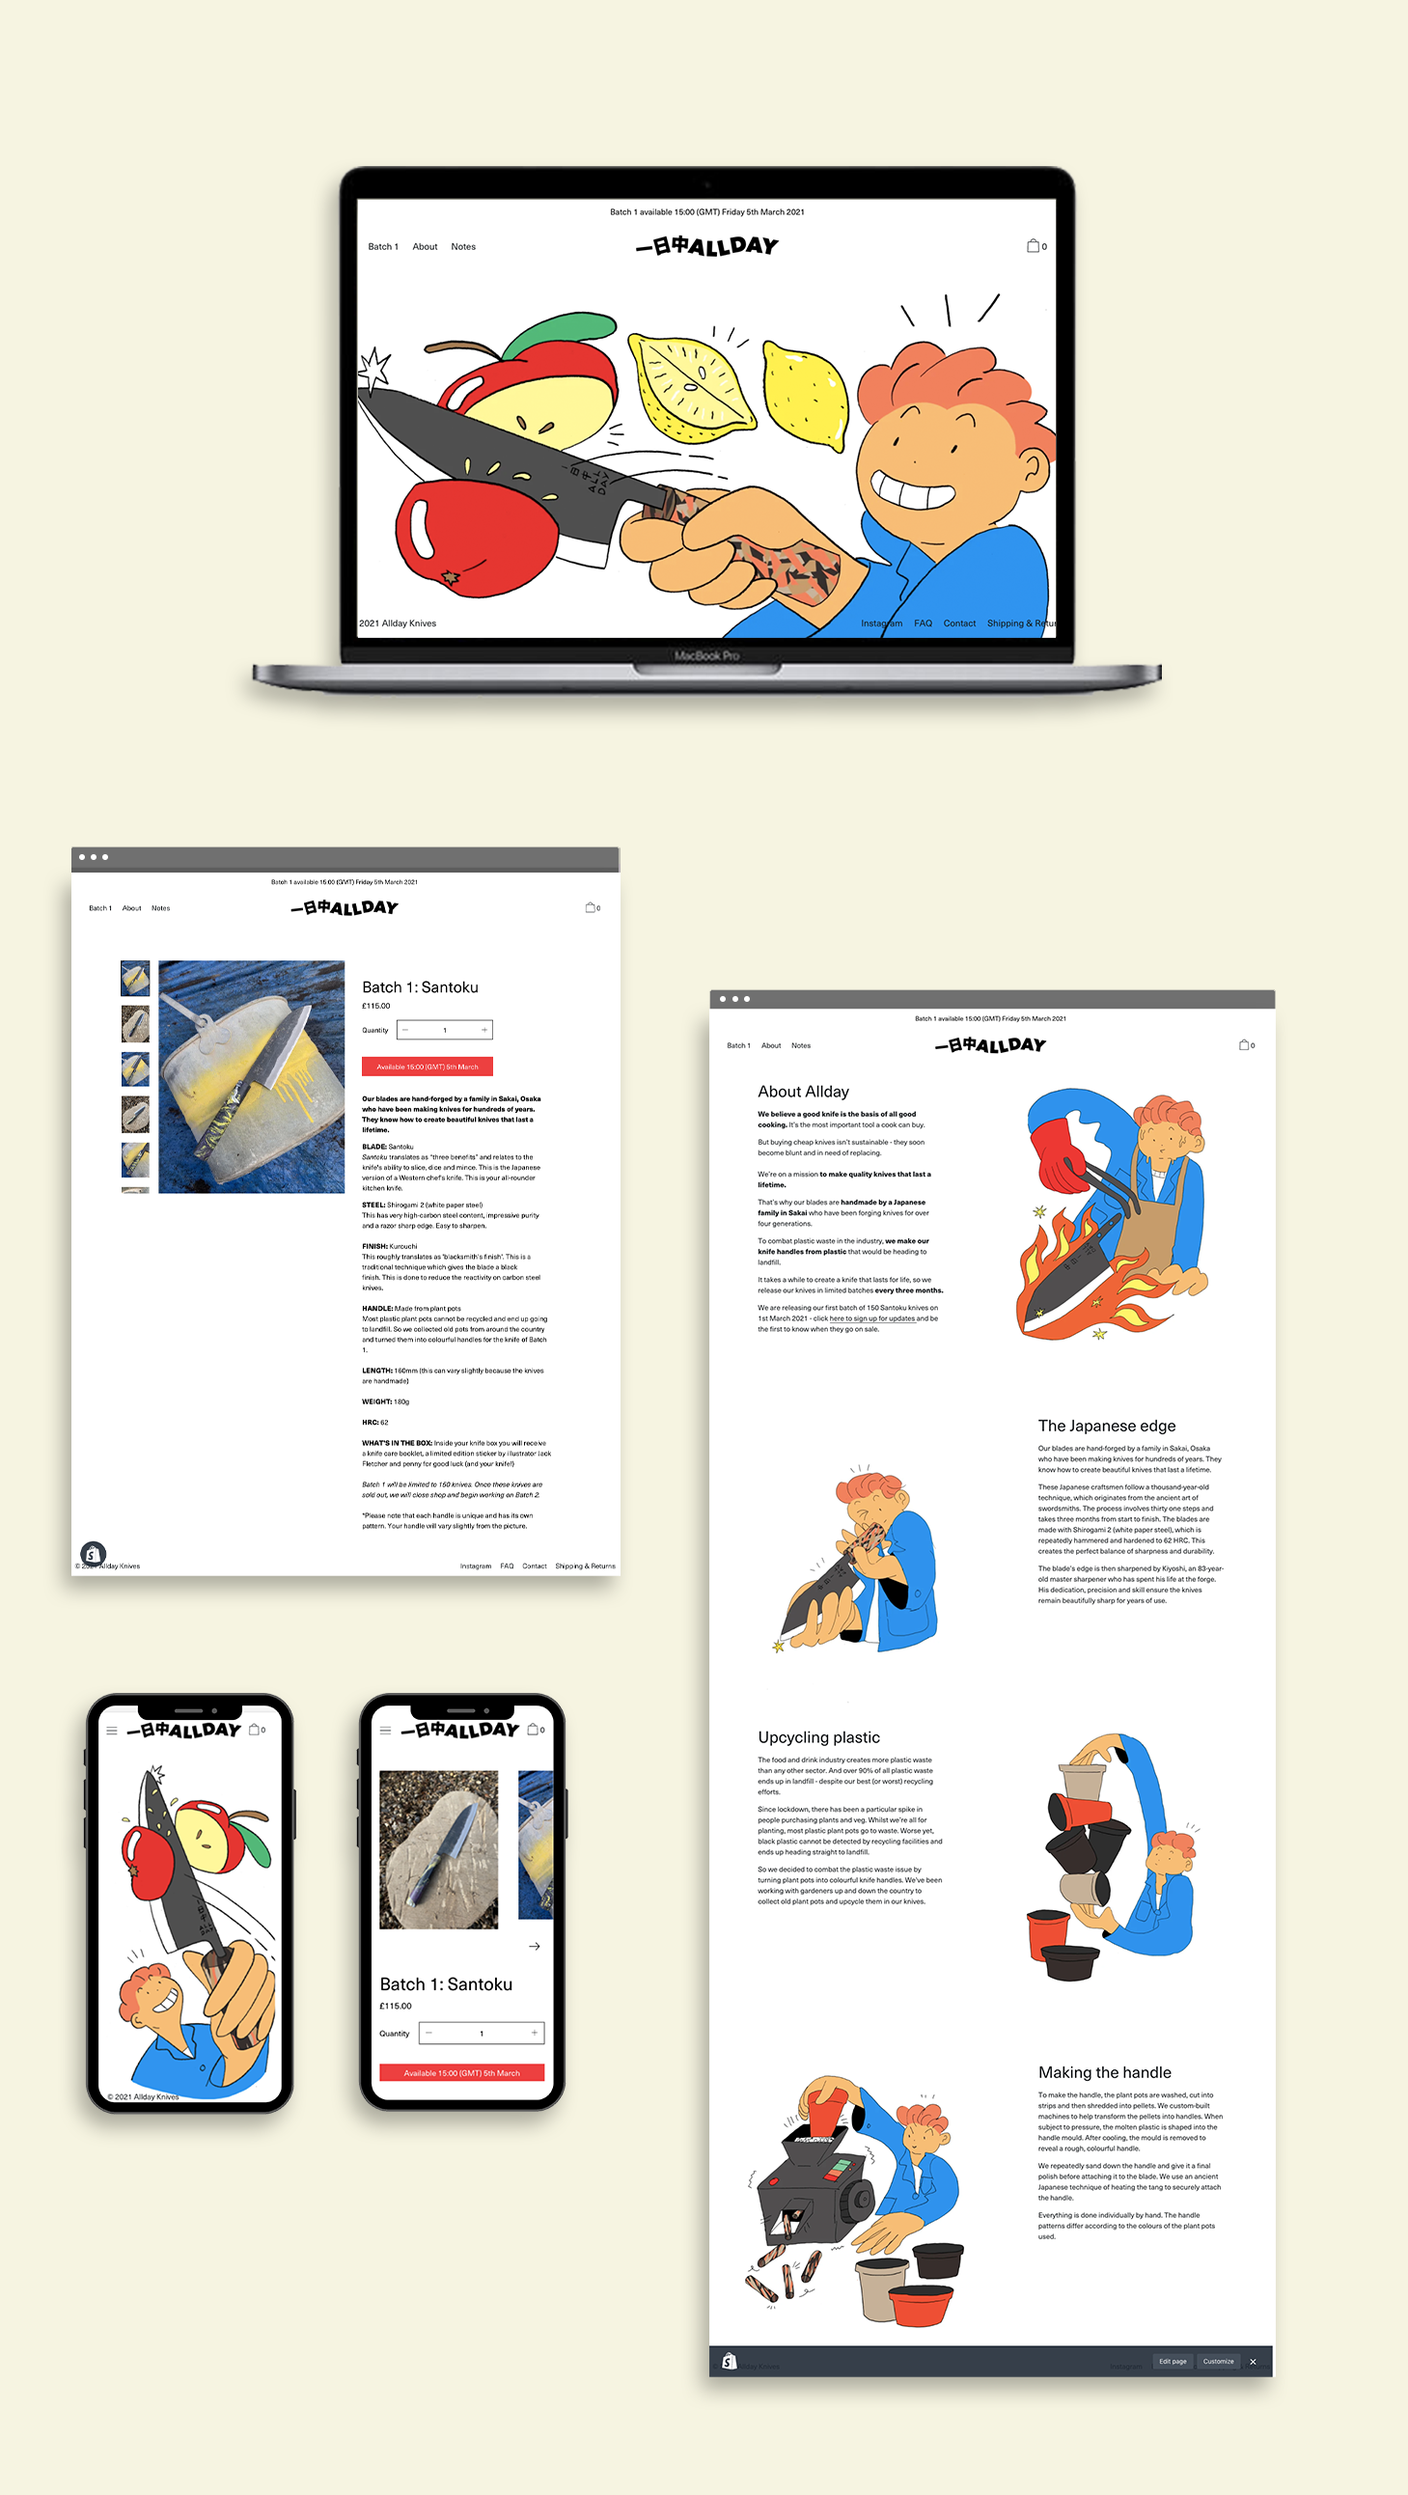
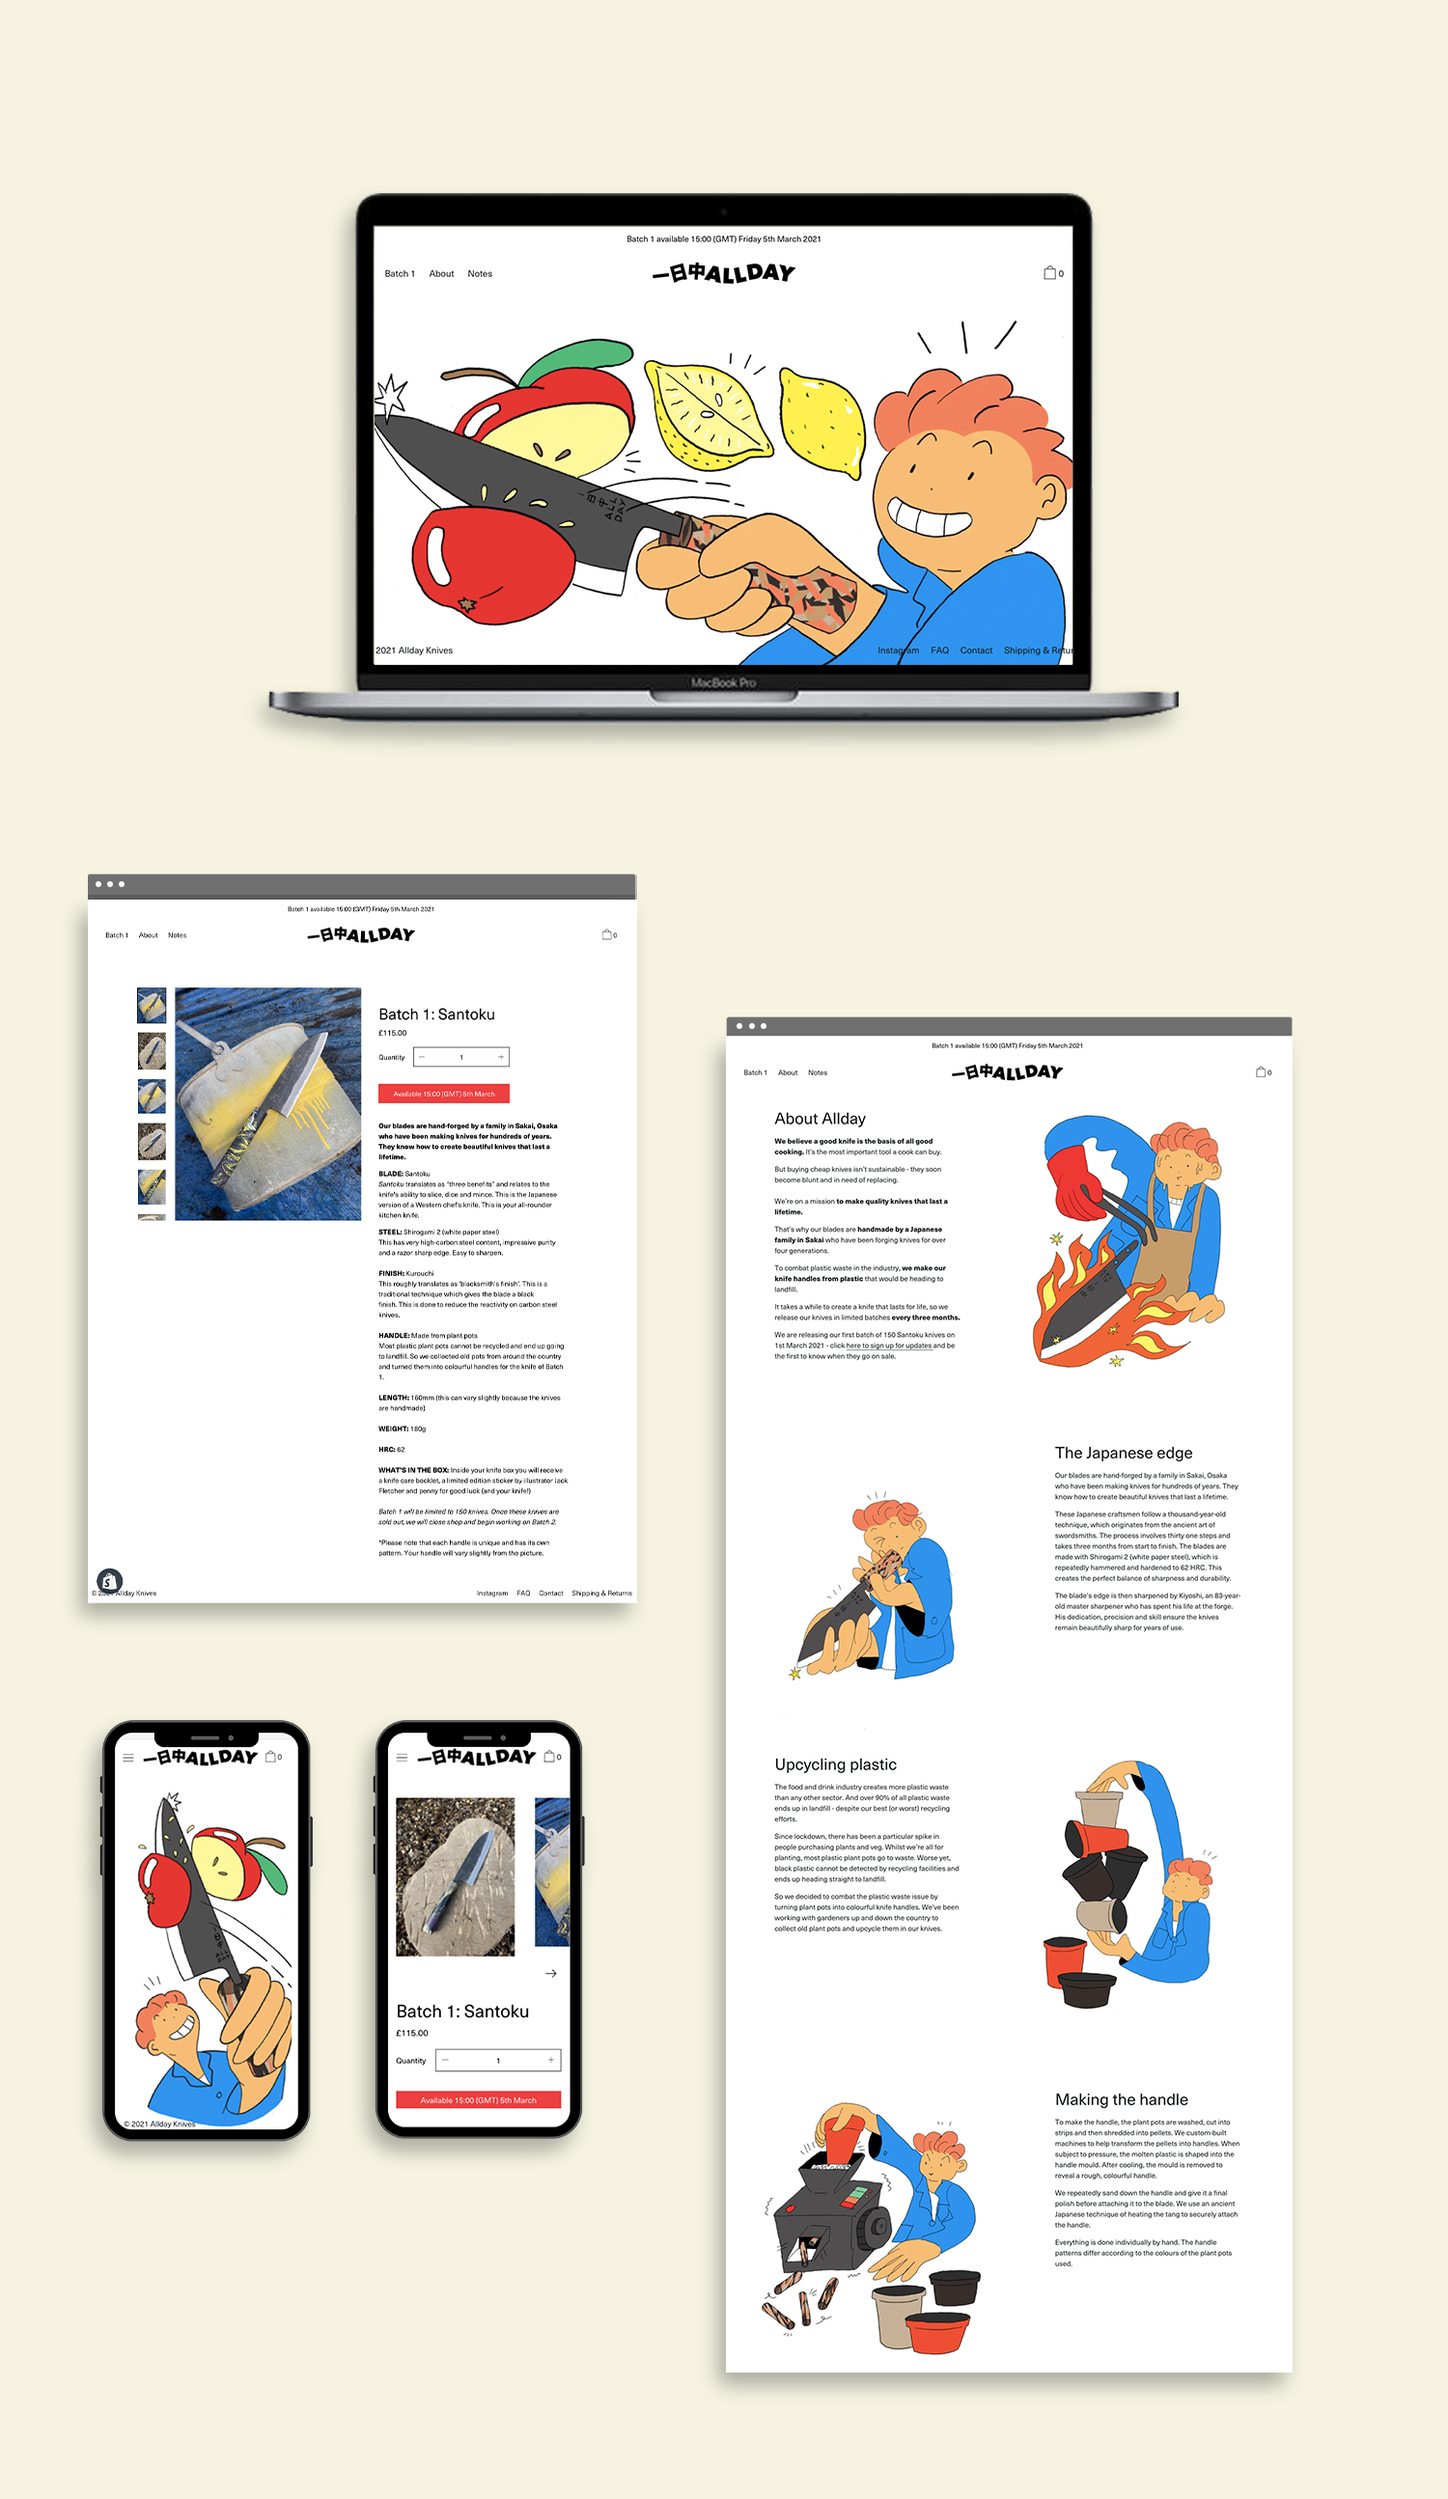
web

diff --git a/main.css b/main.css
@@ -1154,7 +1154,7 @@ footer{
 
 /*  Web Portfolio */
 .web-work{
-  padding: 7rem 5rem;
+  padding: 0 5rem 7rem;
   background-color: white;
 }
 
